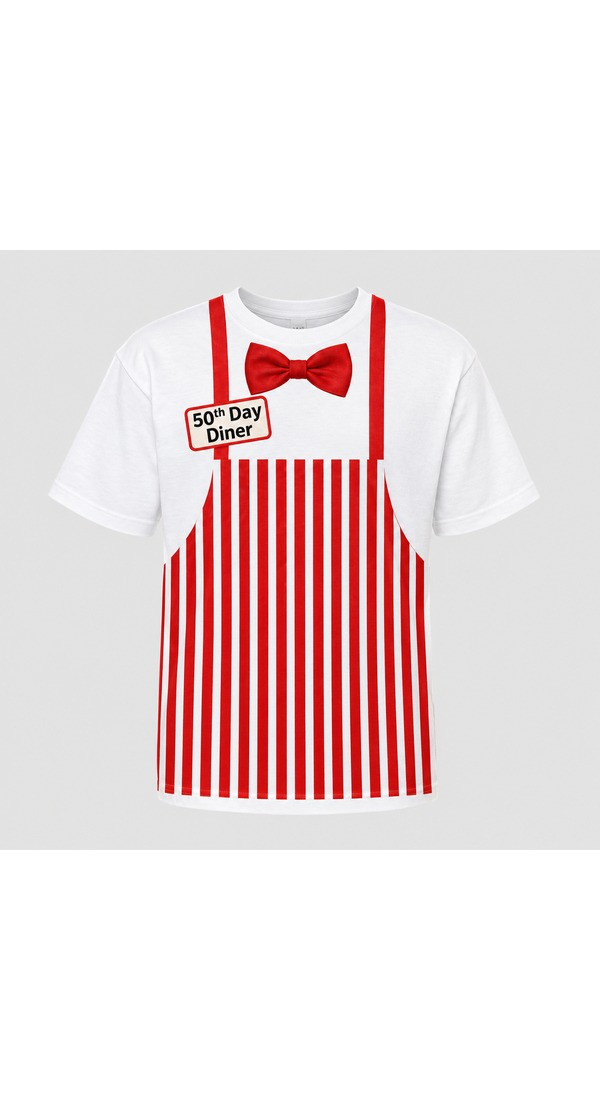
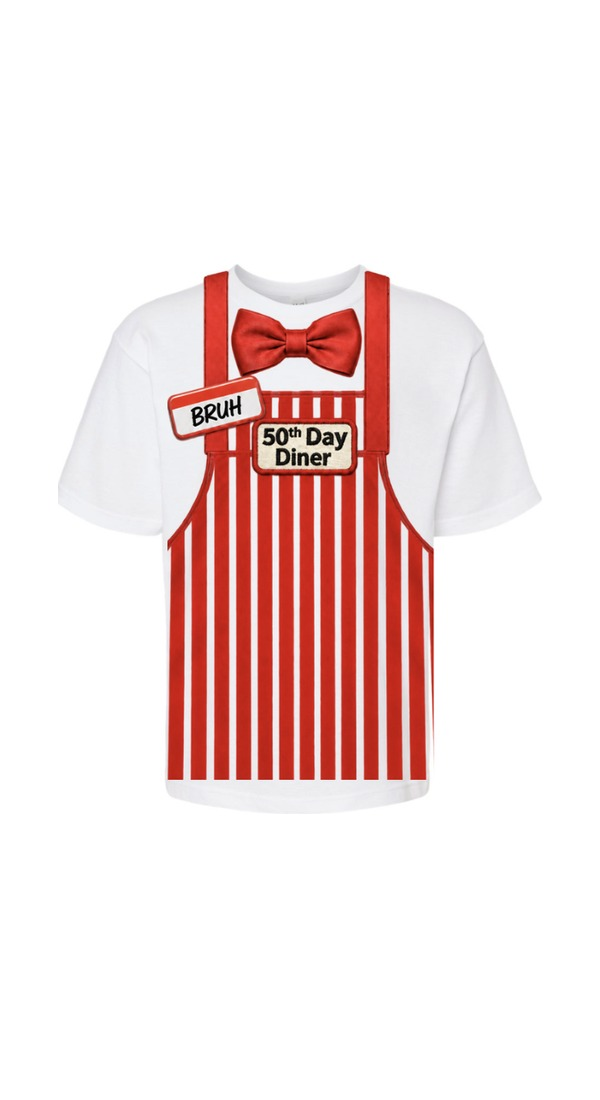
Diner Tee: new front design with BRUH nametag patch
- Swap in Anne's new diner-apron front artwork, which adds a stitched-look
  oval "BRUH" patch (same concept as the retired Garage Tee) alongside the
  existing "50th Day Diner" patch and bow-tie.
- Update the blurb and customization wording so the name customization
  replaces "BRUH" on the patch, instead of the old generic apron-tag
  script-name placement.
- Bump SITE_BUILD_ID to kinder50-catalog-v11.

diff --git a/index.html b/index.html
@@ -1269,7 +1269,7 @@ const NV_SALES_TAX_RATE = 0.08375;
 // date: reload once to pick up the new one, and if it is still stale after that,
 // refuse to render the checkout buttons rather than take a wrong-amount payment.
 // Bump SITE_BUILD_ID and version.json together on every deploy that changes money.
-const SITE_BUILD_ID = '2026-10-04-kinder50-catalog-v10';
+const SITE_BUILD_ID = '2026-10-04-kinder50-catalog-v11';
 let siteBuildStale = false;
 
 function showStaleNotice(){
@@ -2447,7 +2447,7 @@ const KINDER50_PRODUCTS = [
   { key:'k50-baseball-50', price:30, name:'Baseball Jersey Tee', img:'images/kinder50/baseball-50.jpg', imgBack:'images/kinder50/baseball-50-back.jpg', color:'Natural', blurb:"Faux pinstripe baseball jersey print with a script “Fifty Days” front and a bold “50” on the back — printed on a Natural blank.", customizable:true, customPlacement:'custom name on the back in sports jersey block letter font' },
   { key:'k50-baseball-peaches', price:30, name:'“Peaches” Baseball Tee', img:'images/kinder50/baseball-peaches.jpg', imgBack:'images/kinder50/baseball-peaches-back.jpg', color:'Cream', blurb:"Faux vintage pinstripe baseball jersey print, A League of Their Own-inspired “Peaches” look — printed on a Cream blank.", customizable:true, customPlacement:'custom name on the back in sports jersey block letter font' },
   { key:'k50-bowling', price:30, name:'Bowling Night Tee', img:'images/kinder50/bowling.jpg', imgBack:'images/kinder50/bowling-back.jpg', color:'Diving Blue', blurb:"Faux retro bowling-shirt print, “Gutter Greasers” and a slanted “50” on the back — printed on a Diving Blue blank.", customizable:true, customPlacement:'optional nametag on the back' },
-  { key:'k50-diner', price:30, name:'50th Day Diner Tee', img:'images/kinder50/diner.jpg', imgBack:'images/kinder50/diner-back.jpg', color:'White', blurb:"Faux diner-apron print with a bow-tie and a “50th Day Diner” name tag — printed on a White blank.", customizable:true, customPlacement:'small script name on the apron tag' },
+  { key:'k50-diner', price:30, name:'50th Day Diner Tee', img:'images/kinder50/diner.jpg', imgBack:'images/kinder50/diner-back.jpg', color:'White', blurb:"Faux diner-apron print with a faux satin bow-tie, a stitched-look oval “BRUH” patch (or customize it with your own name), and a “50th Day Diner” patch — printed on a White blank.", customizable:true, customPlacement:'name patch in place of “BRUH”' },
   { key:'k50-poodle-bandana', price:30, name:'Poodle Black Scarf Tee', img:'images/kinder50/poodle-black.jpg', imgBack:'images/kinder50/poodle-black-back.jpg', color:'White', blurb:"Faux sequin poodle appliqué with a glitter-gold “50” and a faux satin polka-dot bandana collar — printed on a White blank.", customizable:true, customPlacement:'small name patch below the collar' },
   { key:'k50-poodle-collar', price:30, name:'Poodle Pink Collar Tee', img:'images/kinder50/poodle-pink.jpg', imgBack:'images/kinder50/poodle-pink-back.jpg', color:'White', blurb:"Faux sequin poodle appliqué with a glitter-gold “50” and a faux felt scalloped collar with pearl buttons — printed on a White blank.", customizable:true, customPlacement:'small name patch below the collar' }
 ];

diff --git a/order.html b/order.html
@@ -1269,7 +1269,7 @@ const NV_SALES_TAX_RATE = 0.08375;
 // date: reload once to pick up the new one, and if it is still stale after that,
 // refuse to render the checkout buttons rather than take a wrong-amount payment.
 // Bump SITE_BUILD_ID and version.json together on every deploy that changes money.
-const SITE_BUILD_ID = '2026-10-04-kinder50-catalog-v10';
+const SITE_BUILD_ID = '2026-10-04-kinder50-catalog-v11';
 let siteBuildStale = false;
 
 function showStaleNotice(){
@@ -2447,7 +2447,7 @@ const KINDER50_PRODUCTS = [
   { key:'k50-baseball-50', price:30, name:'Baseball Jersey Tee', img:'images/kinder50/baseball-50.jpg', imgBack:'images/kinder50/baseball-50-back.jpg', color:'Natural', blurb:"Faux pinstripe baseball jersey print with a script “Fifty Days” front and a bold “50” on the back — printed on a Natural blank.", customizable:true, customPlacement:'custom name on the back in sports jersey block letter font' },
   { key:'k50-baseball-peaches', price:30, name:'“Peaches” Baseball Tee', img:'images/kinder50/baseball-peaches.jpg', imgBack:'images/kinder50/baseball-peaches-back.jpg', color:'Cream', blurb:"Faux vintage pinstripe baseball jersey print, A League of Their Own-inspired “Peaches” look — printed on a Cream blank.", customizable:true, customPlacement:'custom name on the back in sports jersey block letter font' },
   { key:'k50-bowling', price:30, name:'Bowling Night Tee', img:'images/kinder50/bowling.jpg', imgBack:'images/kinder50/bowling-back.jpg', color:'Diving Blue', blurb:"Faux retro bowling-shirt print, “Gutter Greasers” and a slanted “50” on the back — printed on a Diving Blue blank.", customizable:true, customPlacement:'optional nametag on the back' },
-  { key:'k50-diner', price:30, name:'50th Day Diner Tee', img:'images/kinder50/diner.jpg', imgBack:'images/kinder50/diner-back.jpg', color:'White', blurb:"Faux diner-apron print with a bow-tie and a “50th Day Diner” name tag — printed on a White blank.", customizable:true, customPlacement:'small script name on the apron tag' },
+  { key:'k50-diner', price:30, name:'50th Day Diner Tee', img:'images/kinder50/diner.jpg', imgBack:'images/kinder50/diner-back.jpg', color:'White', blurb:"Faux diner-apron print with a faux satin bow-tie, a stitched-look oval “BRUH” patch (or customize it with your own name), and a “50th Day Diner” patch — printed on a White blank.", customizable:true, customPlacement:'name patch in place of “BRUH”' },
   { key:'k50-poodle-bandana', price:30, name:'Poodle Black Scarf Tee', img:'images/kinder50/poodle-black.jpg', imgBack:'images/kinder50/poodle-black-back.jpg', color:'White', blurb:"Faux sequin poodle appliqué with a glitter-gold “50” and a faux satin polka-dot bandana collar — printed on a White blank.", customizable:true, customPlacement:'small name patch below the collar' },
   { key:'k50-poodle-collar', price:30, name:'Poodle Pink Collar Tee', img:'images/kinder50/poodle-pink.jpg', imgBack:'images/kinder50/poodle-pink-back.jpg', color:'White', blurb:"Faux sequin poodle appliqué with a glitter-gold “50” and a faux felt scalloped collar with pearl buttons — printed on a White blank.", customizable:true, customPlacement:'small name patch below the collar' }
 ];
